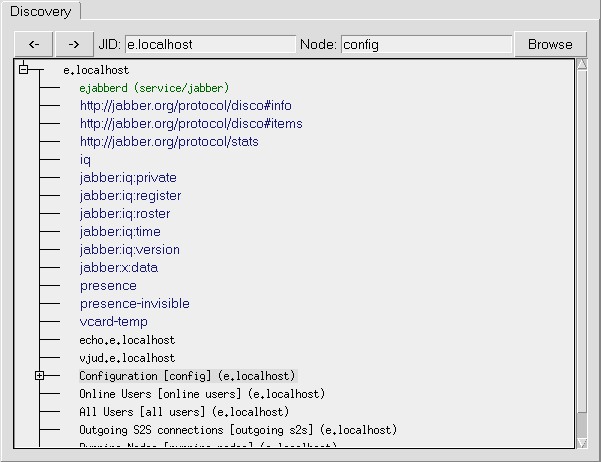
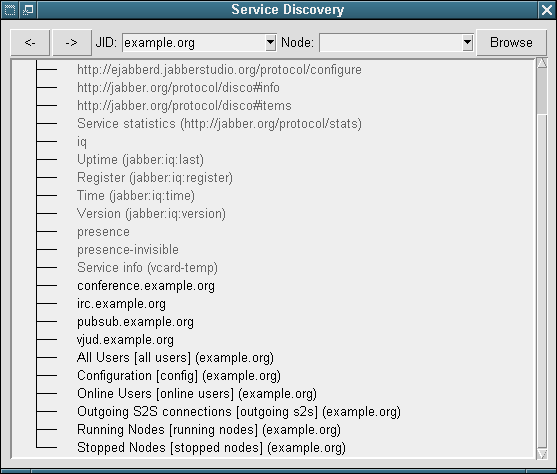
* doc/guide.tex: Updated (thanks to Sergei Golovan) 	* doc/dev.tex: Likewise 	* doc/disco.png: Likewise 	* doc/discorus.png: Likewise 	* doc/webadmin.png: Likewise 	* doc/webadminru.png: Likewise
git-svn-id: https://svn.process-one.net/ejabberd/trunk@356 1613c18e-e6f4-0310-972c-c3fad1d2be73

Changed region(s): [[0.0, 0.0, 1.0, 1.0]]

diff --git a/doc/dev.tex b/doc/dev.tex
@@ -31,7 +31,9 @@
 \newcommand{\modprivate}{\texttt{mod\_private}}
 \newcommand{\modtime}{\texttt{mod\_time}}
 \newcommand{\modversion}{\texttt{mod\_version}}
-c
+
+\newcommand{\tjepref}[2]{\footahref{http://www.jabber.org/jeps/jep-#1.html}{#2}}
+\newcommand{\jepref}[1]{\tjepref{#1}{JEP-#1}}
 %\setcounter{tocdepth}{3}
 
 
@@ -58,42 +60,42 @@ c
 \label{sec:intro}
 
 \ejabberd{} is a Free and Open Source fault-tolerant distributed \Jabber{}
-server.  It is writen mostly in Erlang.
+server.  It is written mostly in Erlang.
 
-The main features of \ejabberd{} is:
+The main features of \ejabberd{} are:
 \begin{itemize}
-\item Works on most of popular platforms: *nix (tested on Linux and FreeBSD)
-  and Win32
-\item Distributed: You can run \ejabberd{} on a cluster of machines and all of
-  them will serve one Jabber domain.
+\item Works on most of popular platforms: *nix (tested on Linux, FreeBSD and
+  NetBSD) and Win32
+\item Distributed: You can run \ejabberd{} on a cluster of machines to let all of
+  them serve one Jabber domain.
 \item Fault-tolerance: You can setup an \ejabberd{} cluster so that all the
   information required for a properly working service will be stored
   permanently on more than one node.  This means that if one of the nodes
   crashes, then the others will continue working without disruption.
-  You can also add or replace more nodes ``on the fly''.
-\item Built-in \footahref{http://www.jabber.org/jeps/jep-0045.html}{Multi-User
-    Chat} service
+  You can also add or replace nodes ``on the fly''.
+\item Support for virtual hosting
+\item Built-in \tjepref{0045}{Multi-User Chat} service
 \item Built-in IRC transport
-\item Built-in
-  \footahref{http://www.jabber.org/jeps/jep-0060.html}{Publish-Subscribe}
-  service
+\item Built-in \tjepref{0060}{Publish-Subscribe} service
 \item Built-in Jabber Users Directory service based on users vCards
-\item Support for
-  \footahref{http://www.jabber.org/jeps/jep-0030.html}{JEP-0030}
-  (Service Discovery).
-\item Support for
-  \footahref{http://www.jabber.org/jeps/jep-0039.html}{JEP-0039}
-  (Statistics Gathering).
-\item Support for \ns{xml:lang} attribute in many XML elements
+\item Built-in web-based administration interface
+\item Built-in \tjepref{0025}{HTTP Polling} service
+\item SSL support
+\item Support for LDAP authentication
+\item Ability to interface with external components (JIT, MSN-t, Yahoo-t, etc.)
+\item Migration from jabberd14 is possible
+\item Mostly XMPP-compliant
+\item Support for \tjepref{0030}{Service Discovery}.
+\item Support for \tjepref{0039}{Statistics Gathering}.
+\item Support for \ns{xml:lang}
 \end{itemize}
-
-
+\ejabberd{} is a Free and Open Source fault-tolerant distributed \Jabber{}
+server.  It is written mostly in Erlang.
 
 
 
 \subsection{How it works}
 \label{sec:howitworks}
-
 
 
 A \Jabber{} domain is served by one or more \ejabberd{} nodes.  These nodes can
@@ -169,14 +171,14 @@ XMLElement = {xmlelement, Name, Attrs, [ElementOrCDATA]}
 \end{verbatim}
 E.\,g. this stanza:
 \begin{verbatim}
-<message to='test@conference.e.localhost' type='groupchat'>
+<message to='test@conference.example.org' type='groupchat'>
   <body>test</body>
 </message>
 \end{verbatim}
 represented as following structure:
 \begin{verbatim}
 {xmlelement, "message",
-    [{"to", "test@conference.e.localhost"},
+    [{"to", "test@conference.example.org"},
      {"type", "groupchat"}],
     [{xmlelement, "body",
          [],

diff --git a/doc/guide.tex b/doc/guide.tex
@@ -126,8 +126,8 @@ The main features of \ejabberd{} are:
 \item Ability to interface with external components (JIT, MSN-t, Yahoo-t, etc.)
 \item Migration from jabberd14 is possible
 \item Mostly XMPP-compliant
-\item Support for \jepref{0030} (Service Discovery).
-\item Support for \jepref{0039} (Statistics Gathering).
+\item Support for \tjepref{0030}{Service Discovery}.
+\item Support for \tjepref{0039}{Statistics Gathering}.
 \item Support for \ns{xml:lang}
 \end{itemize}
 
@@ -164,7 +164,7 @@ To compile \ejabberd{} in MS Windows environment, you will need the following
 packages:
 \begin{itemize}
 \item MS Visual C++ 6.0 Compiler
-\item \footahref{http://erlang.org/download/otp_win32_R10B-1a.exe}{Erlang/OTP R10B-1a}
+\item \footahref{http://erlang.org/download/otp\_win32\_R10B-1a.exe}{Erlang/OTP R10B-1a}
 \item \footahref{http://prdownloads.sourceforge.net/expat/expat\_win32bin\_1\_95\_7.exe?download}{Expat 1.95.7}
 \item
 \footahref{http://ftp.gnu.org/pub/gnu/libiconv/libiconv-1.9.1.tar.gz}{Iconv 1.9.1}
@@ -387,7 +387,7 @@ declarations of ACL in config file have following syntax:
 \titem{\{user\_regexp, <regexp>, <server>\}} Matches user with name
   that matches \term{<regexp>} and from server \term{<server>}.  Example:
 \begin{verbatim}
-{acl, tests, {user, "^test", "localhost"}}.
+{acl, tests, {user, "^test", "example.org"}}.
 \end{verbatim}
 \titem{\{server\_regexp, <regexp>\}} Matches any JID from server that
   matches \term{<regexp>}.  Example:
@@ -524,7 +524,7 @@ Currently these modules are implemented:
 
   The following options are defined:
   \begin{description}
-    \titem{http\_poll} This option enables \tjepref{0025}{HTTP Polling}
+    \titem{http\_poll} This option enables \jepref{0025} (HTTP Polling)
     support.  It is available then at \verb|http://server:port/http-poll/|.
     
     \titem{web\_admin} This option enables web-based interface for \ejabberd{}
@@ -637,7 +637,7 @@ Example:
     {mod_vcard,     []},
     {mod_offline,   []},
     {mod_announce,  [{access, announce}]},
-    {mod_echo,      [{host, "echo.localhost"}]},
+    {mod_echo,      [{host, "echo.example.org"}]},
     {mod_private,   []},
     {mod_irc,       []},
     {mod_muc,       []},
@@ -830,9 +830,9 @@ mnesia:change_table_copy_type(schema, node(), disc_copies).
   but writing will be slower.  And of course if machine with one of
   replicas is down, other replicas will be used.
   
-  Also section ``5.3 Table Fragmentation''
-  \footahref{http://www.erlang.se/doc/doc-5.4/lib/mnesia-4.2/doc/html/index.html}{here}
-  can be useful.
+  Also section 5.3 (Table Fragmentation) of
+  \footahref{http://www.erlang.se/doc/doc-5.4/lib/mnesia-4.2/doc/html/index.html}
+  {Mnesia Reference Manual} can be useful.
   
   (alt) Same as in previous item, but for other tables.
 
@@ -1377,7 +1377,7 @@ All built-in modules support \texttt{xml:lang} attribute inside IQ queries.
 E.\,g.\ on figure~\ref{fig:discorus} showed the reply on the following query:
 \begin{verbatim}
   <iq id='5'
-      to='e.localhost'
+      to='example.org'
       type='get'
       xml:lang='ru'>
     <query xmlns='http://jabber.org/protocol/disco#items'/>
